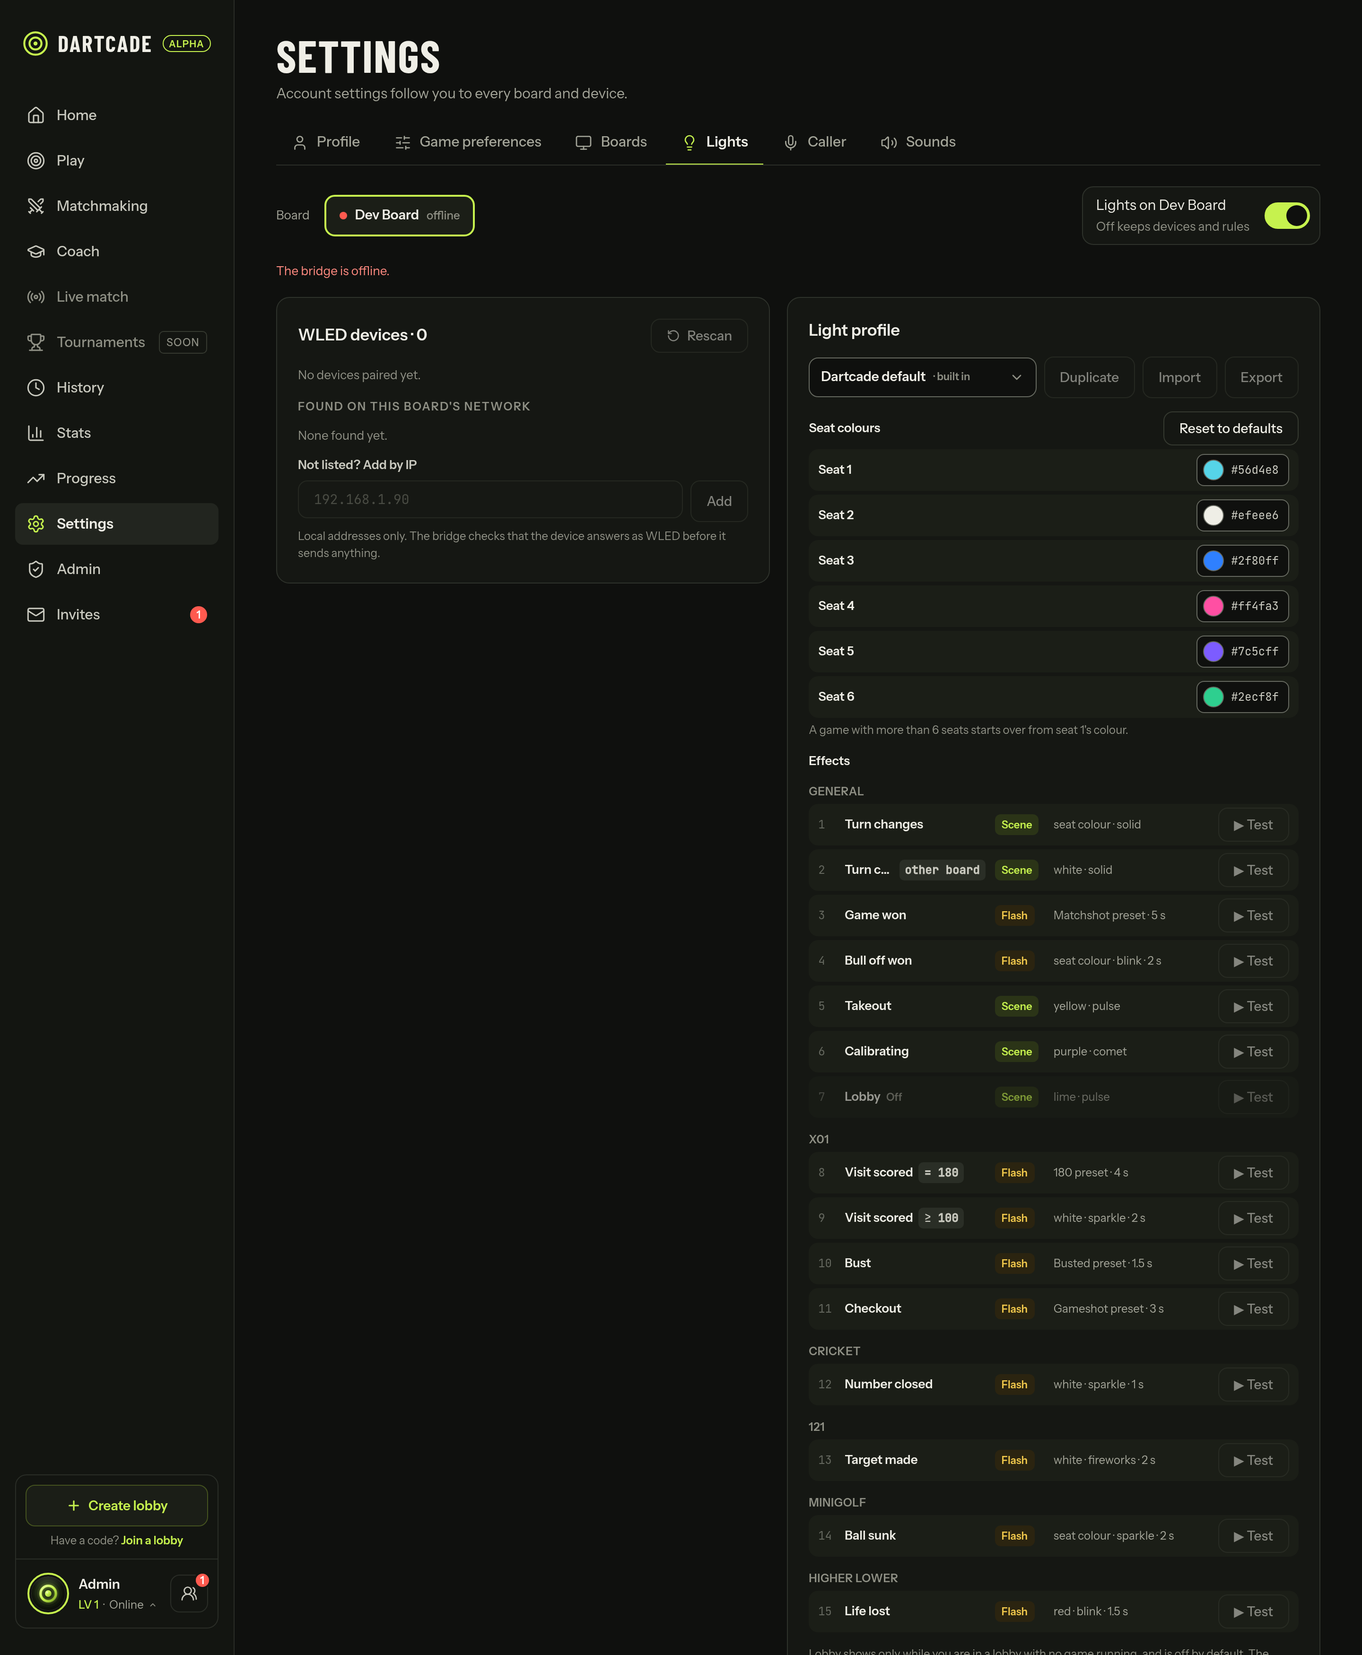
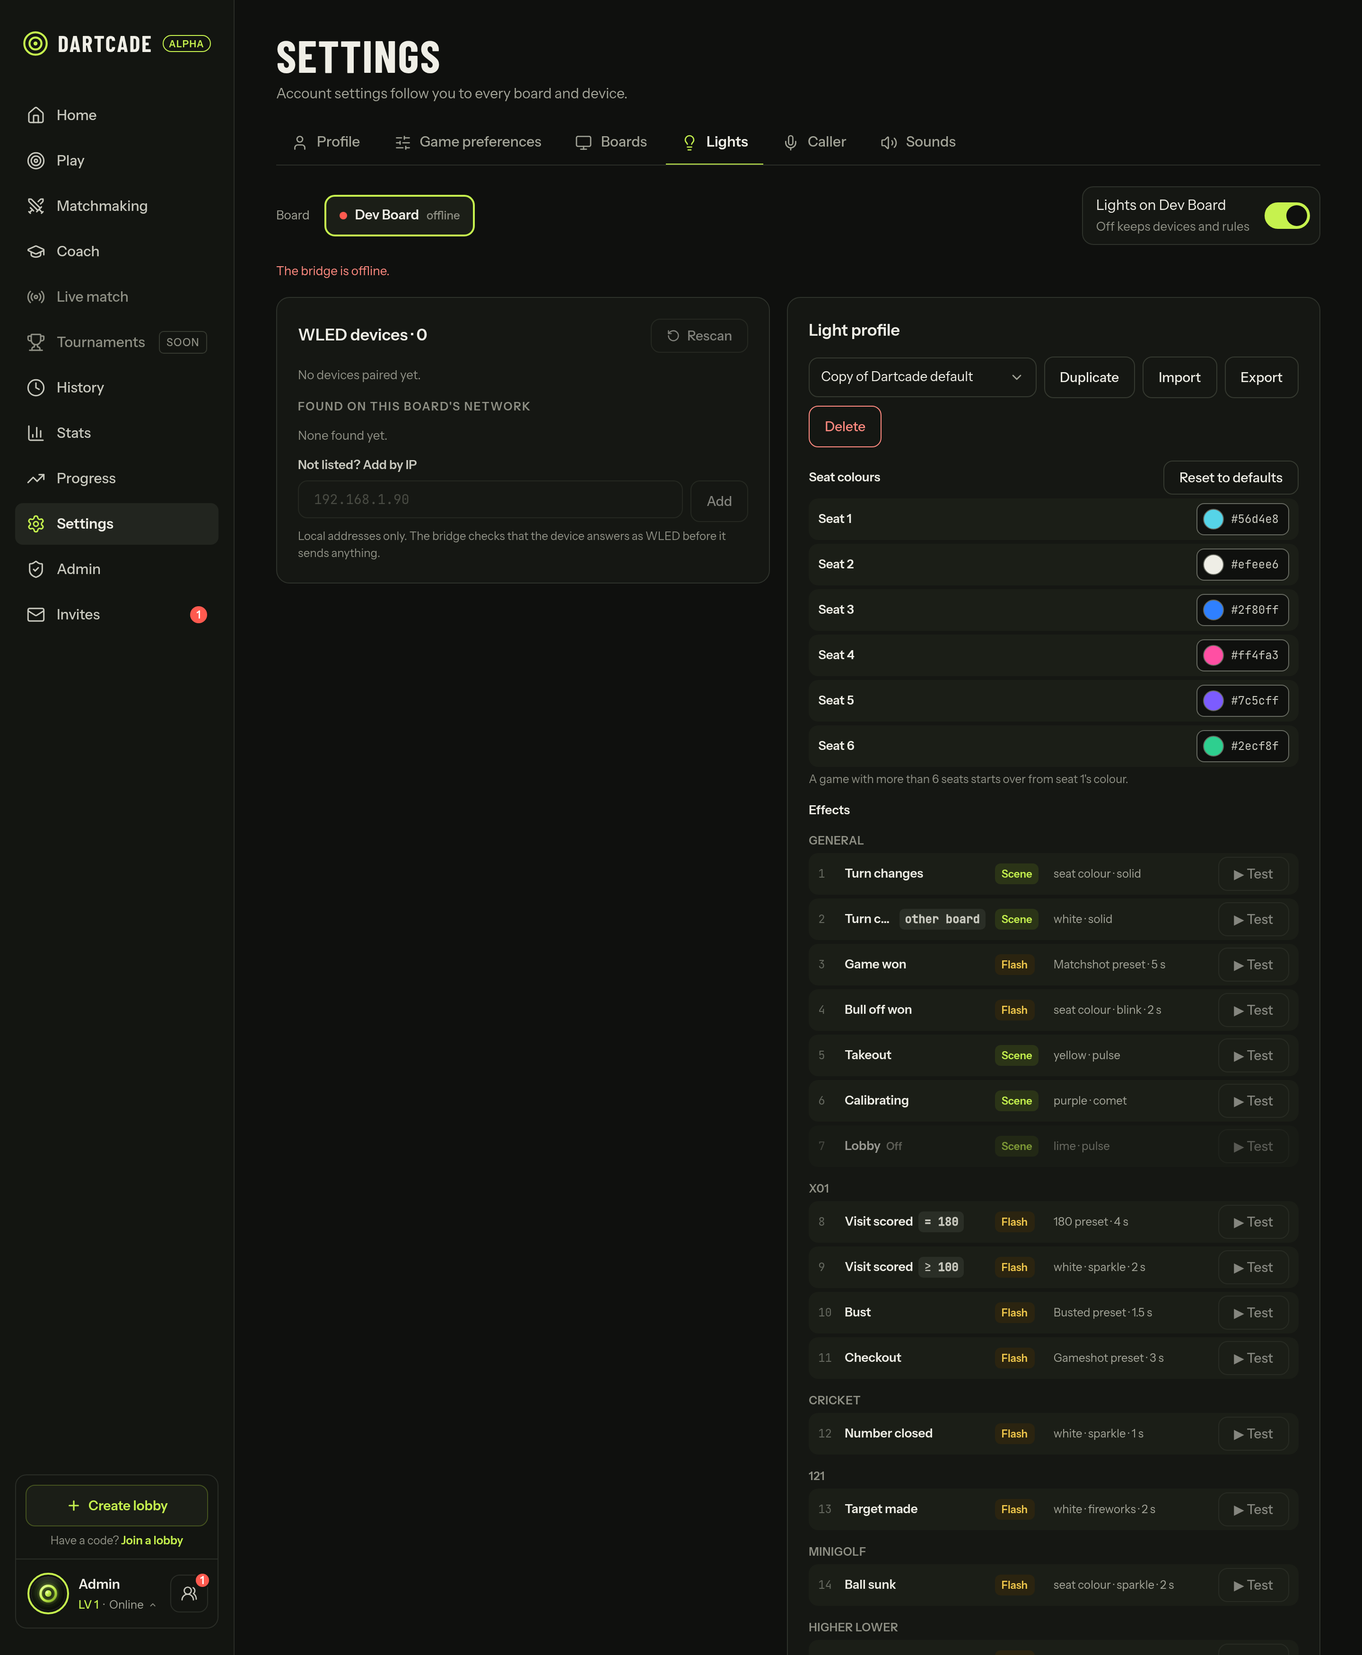
docs(lights): profile files in the spec and AGENTS row, new screenshots

diff --git a/e2e/screenshots/19-lights.spec.ts b/e2e/screenshots/19-lights.spec.ts
@@ -1,5 +1,6 @@
 import { test, expect } from '@playwright/test'
-import { open, shot } from './helpers.js'
+import type { Page } from '@playwright/test'
+import { BASE, open, shot } from './helpers.js'
 
 const VIEWS = [
   [{ width: 1440, height: 1750, scale: 2 }, 'desktop'],
@@ -25,6 +26,80 @@ test('lights profile: the seat colours group on top, a seat colour picker, a sav
 
     await page.getByRole('button', { name: 'Reset to defaults' }).click()
     await expect(page.getByRole('button', { name: /^Seat 3 colour: orange/ })).toBeVisible()
+    await ctx.close()
+  }
+})
+
+// A friend's file: 14 of the built-in effects, one for an effect that does not exist and one for a game that does not
+const friendsFile = (builtIn: { effects: object[] }) =>
+  JSON.stringify({
+    ...builtIn,
+    name: 'Phil’s lights',
+    effects: [
+      ...builtIn.effects.slice(0, 14),
+      { trigger: 'atc.hit', seats: 'mine', type: 'flash', enabled: true, look: { preset: '180' } },
+      { trigger: 'bust', game: 'darts-of-doom', seats: 'mine', type: 'flash', enabled: true, look: { preset: 'Busted' } },
+    ],
+  })
+
+/** Deletes the player's own profiles (a run that failed half-way leaves them), so the board is on the built-in one. */
+async function removeOwnProfiles(page: Page, boardId: string) {
+  const { profiles } = (await (await page.request.get(`/api/boards/${boardId}/lights`)).json()) as {
+    profiles: { id: string; builtIn: boolean }[]
+  }
+  for (const p of profiles.filter(p => !p.builtIn)) {
+    const res = await page.request.delete(`/api/boards/${boardId}/lights/profiles/${p.id}`, { headers: { Origin: BASE } })
+    expect(res.ok()).toBe(true)
+  }
+}
+
+test('light profiles: the profile menu, a duplicate, an import with its result, an export', async ({ browser }) => {
+  for (const [view, name] of [
+    [{ width: 1440, height: 1750, scale: 2 }, 'desktop'],
+    [{ width: 390, height: 2400, scale: 2 }, 'phone'],
+  ] as const) {
+    const { ctx, page } = await open(browser, 'admin', view)
+    await page.goto('/#/settings/lights')
+    await expect(page.getByRole('region', { name: 'Light profile' })).toBeVisible()
+
+    const builtIn = (await (await page.request.get('/api/boards')).json()) as { boards: { id: string }[] }
+    const boardId = builtIn.boards[0].id
+    await removeOwnProfiles(page, boardId)
+    const exported = await (await page.request.get(`/api/boards/${boardId}/lights/profile/export`)).json()
+
+    // Duplicate: the copy is in use, named "Copy of …"
+    await page.getByRole('button', { name: 'Duplicate' }).click()
+    await expect(page.getByRole('button', { name: 'Light profile', exact: true })).toContainText('Copy of Dartcade default')
+    await page.getByRole('button', { name: 'Light profile', exact: true }).click()
+    await expect(page.getByRole('option', { name: /Copy of Dartcade default/ })).toBeVisible()
+    await shot(page, `lights/profile-menu-${name}.png`)
+    await page.keyboard.press('Escape')
+    await shot(page, `lights/duplicate-${name}.png`)
+
+    // Import: a new profile, never an overwrite, with what came through and what was ignored
+    await page.locator('input[type=file]').setInputFiles({
+      name: 'phils-lights.dartcade-lights.json',
+      mimeType: 'application/json',
+      buffer: Buffer.from(friendsFile(exported)),
+    })
+    const dialog = page.getByRole('dialog')
+    await expect(dialog.getByRole('status')).toHaveText('Imported 14 effects, ignored 2')
+    await shot(page, `lights/import-result-${name}.png`)
+    await dialog.getByRole('button', { name: 'Done' }).click()
+    await expect(page.getByRole('button', { name: 'Light profile', exact: true })).toContainText('Phil’s lights')
+
+    // Export: the file has the name, seat colours and effects, and nothing private
+    const download = page.waitForEvent('download')
+    await page.getByRole('button', { name: 'Export' }).click()
+    const file = JSON.parse(await (await (await download).createReadStream()).toArray().then(c => Buffer.concat(c).toString()))
+    expect(file).toMatchObject({ format: 'dartcade-light-profile', version: 1, name: 'Phil’s lights' })
+    expect(JSON.stringify(file)).not.toMatch(/"(id|host|mac|token|state)"/)
+
+    // The Delete button asks first; the rest are removed through the API so the next run starts from the built-in profile
+    await page.getByRole('button', { name: 'Delete', exact: true }).click()
+    await page.getByRole('dialog').getByRole('button', { name: 'Delete' }).click()
+    await expect(page.getByRole('dialog')).toBeHidden()
+    await removeOwnProfiles(page, boardId)
     await ctx.close()
   }
 })

diff --git a/AGENTS.md b/AGENTS.md
@@ -79,7 +79,7 @@ corrected dart replays the open visit cleanly.
 | Settings page and the caller | `backend/frontend/src/routes/Settings.svelte` (sections at `#/settings/<section>`, listed in `lib/settings/sections.ts`), its cards in `lib/components/settings/` (`YourCard`: your profile card and the Customise link, `NameCard`, `AccountCard`, `GamePrefs`, `CallerVoices`, `CallerDefaults`, `VoiceSelect`); settings in `lib/gameSettings.ts` (cached per device), the account-wide ones (`ACCOUNT_KEYS`) synced by `lib/accountSettings.ts` through `GET`/`PUT /api/me/preferences` (`api/me.ts`, the `user.preferences` column); the Boards section is `lib/components/boards/BoardsSection.svelte` (`#/boards` redirects there); what the caller says (checkout calls: `checkoutFor`, `requirePart`), its voices and the player in `lib/caller/` (`calls.ts`, `voices.ts`, `player.ts`); voice packs on the server in `backend/src/caller/` (`autodarts.ts` cuts an Autodarts voice MP3 by its timing table, behind `caller.autodartsImport`; the bookmarklet that fetches them is `lib/caller/autodartsVoices.js`, turned into a link in `lib/caller/bookmarklet.ts`), their API in `backend/src/api/voices.ts` (rename: `PATCH /api/voice-packs/{id}`, `renameVoicePack` in `lib/caller/voices.ts`); the play buttons for sounds and samples are `lib/components/PreviewButton.svelte`; a pack's details page (every sound the caller can use, a preview of those the pack has) is `routes/VoicePackDetails.svelte` with the list in `lib/caller/catalogue.ts`, behind `caller.packDetails` |
 | Profile pictures: the Dartcade mark in two layers (foreground, background), each one of twenty finishes | `backend/src/shared/avatarFinishes.ts` (the list), rewards `picture.<id>` in `shared/progression.ts` `PERKS`; `user.avatar_preset` (foreground) / `avatar_background` (migration `038`), `setAvatar` in `db/users.ts`, `PATCH /api/me`; art: one standalone SVG per layer, `backend/frontend/src/lib/assets/finishes/<id>/{foreground,background}.svg` (short local ids; add a finish with a folder holding both files plus an `AVATAR_FINISHES` entry), assembled into one sprite of `finish-fg-<id>`/`finish-bg-<id>` symbols at build time by `lib/assets/finishes.ts` (ids prefixed `<id>-<fg|bg>-`), inlined once by `FinishSprite.svelte` (in `App.svelte`), drawn by `FinishPicture.svelte` (one layer or both) inside `Avatar.svelte`; `lib/progress/pictures.ts` (`wearPicture`, `finishAvatar`); picked only on Customise (`routes/Customise.svelte`); initials (`none`) and photos (`upload`, `POST /api/me/avatar`, `avatar.upload.enabled`) still render but have no UI for now |
 | Customise your card (picture layers, frame, banner, colours and name style, title, sounds, celebrations): a draft saved together | `#/profile/customise/:tab` (`routes/Customise.svelte`, one route so tabs keep the draft; the Profile page's and Settings → Profile's Customise buttons link here); tabs, draft diffing (`equipChanges`, `pictureChanged`), Hide locked in `lib/progress/customise.ts`; tiles `lib/components/progress/CustomiseTile.svelte`; saves through `equip` (`lib/progress/equip.ts`) and `wearPicture` |
-| Lights (WLED): triggers from game snapshots, the built-in profile, devices per board | rules and patches in `backend/src/shared/lights/` (shared with the frontend), triggers per game in `backend/src/lights/triggers/` (a trigger's game, so the Effects list's groups, is `TRIGGER_GAME` in `shared/lights/groups.ts`: add a trigger there or the typecheck fails; the list is built by `effectGroups` in `lib/lights/view.ts`, and the built-in rules are kept in group order), `backend/src/lights/service.ts` (sends `wled.apply` to the bridge), reports in `lights/store.ts`, `db/lights.ts`, API in `api/lights.ts`; a profile's `seatColors` (six `#rrggbb`, wrapping past seat 6 via `seatColor`; `DEFAULT_SEAT_COLORS` in `shared/lights/profile.ts`) are the board's own in `boards.light_seat_colors` (migration `061`, `PUT`/`DELETE …/lights/seat-colors`), edited in the card's Seat colours group (`SeatColorPicker.svelte`, `lib/lights/seatColors.ts`) and never part of device data; bridge side `bridge/internal/wled` (allowlist, queue, flash/restore, mDNS; refuses loopback addresses unless `DARTCADE_WLED_ALLOW_LOOPBACK=1`); frontend `lib/components/lights/`, `lib/lights/`; behind `lights.enabled`; spec `docs/superpowers/specs/2026-10-18-wled-lights-design.md`, plan `docs/superpowers/plans/2026-10-18-wled-lights.md` |
+| Lights (WLED): triggers from game snapshots, the built-in profile, devices per board | rules and patches in `backend/src/shared/lights/` (shared with the frontend), triggers per game in `backend/src/lights/triggers/` (a trigger's game, so the Effects list's groups, is `TRIGGER_GAME` in `shared/lights/groups.ts`: add a trigger there or the typecheck fails; the list is built by `effectGroups` in `lib/lights/view.ts`, and the built-in rules are kept in group order), `backend/src/lights/service.ts` (sends `wled.apply` to the bridge), reports in `lights/store.ts`, `db/lights.ts`, API in `api/lights.ts`; a profile's `seatColors` (six `#rrggbb`, wrapping past seat 6 via `seatColor`; `DEFAULT_SEAT_COLORS` in `shared/lights/profile.ts`) are the board's own in `boards.light_seat_colors` (migration `061`, `PUT`/`DELETE …/lights/seat-colors`), edited in the card's Seat colours group (`SeatColorPicker.svelte`, `lib/lights/seatColors.ts`) and never part of device data; a player's own profiles (Duplicate, Import, Export, Delete in the card's profile menu: `LightProfileCard.svelte`, `ImportResultDialog.svelte`, `LightsSection.svelte`) are the `light_profiles` table (migration `063`, `boards.light_profile_id` selects one, null is the built-in), the board's effective profile is `getBoardProfile` in `db/lights.ts`, and the file format with its strict import (a preset is a name, never WLED state) is `lights/profileFile.ts`; bridge side `bridge/internal/wled` (allowlist, queue, flash/restore, mDNS; refuses loopback addresses unless `DARTCADE_WLED_ALLOW_LOOPBACK=1`); frontend `lib/components/lights/`, `lib/lights/`; behind `lights.enabled`; spec `docs/superpowers/specs/2026-10-18-wled-lights-design.md`, plan `docs/superpowers/plans/2026-10-18-wled-lights.md` |
 | Big screen: a view-only, distance-readable game display for the board's screen (idle, live, held result), started on the board machine by a user-session helper | page `backend/frontend/src/routes/BigScreen.svelte` (`#/big-screen/<boardId>`), `lib/bigscreen/`, `lib/components/bigscreen/`; what it shows is the match screen's own components, view only (`MatchScreen`, so every mode, then `WinScreen`, ... with the derivations in `lib/matchView.ts`, shared with `GameDisplay.svelte`), drawn in a same-origin iframe 1.25 times smaller than the stage and scaled up (`MatchFrame.svelte` posts the state to `routes/BigScreenFrame.svelte`, `#/big-screen-frame`; `lib/bigscreen/frame.ts`); socket `/ws/board` in `backend/src/browser-gw/bigScreen.ts` (messages in `schema/board-ws-v1.json`), `backend/src/bigscreen/service.ts` (follows `engine.getSessionByBoard`, holds a finished game from the `ended` hook, polls the board's Board Manager status every 3 s while someone follows it, via `boards/bmState.ts`, for the header's status dot), the running state and the open command in `backend/src/boards/{bigScreenState,bigScreenOpen}.ts` (the bridge's `bigscreen.status` branch is in `backend/src/bridge-gw/handler.ts`); API in `backend/src/api/boards.ts` (`PATCH /api/boards/{id}/big-screen`, `POST …/big-screen/start\|stop`); buttons and setting: `BoardStatusPanel.svelte`, `SettingsDrawer.svelte`, `BoardsSection.svelte` (its Big screen section is `boards/BigScreenSetup.svelte`: monitor switch, Manual / Always on, status, button), `bigScreenButton` in `lib/boards.ts`; bridge `bridge/internal/bigscreen` (forwarder, helper, registration); behind `bigscreen.enabled`; spec `docs/superpowers/specs/2026-10-27-big-screen-design.md` |
 | Home (`#/`, where signing in lands; `#/play` is the Play page): your form, ranked, featured banners, friends' lobbies, friend activity, what's new, jump back in | `backend/frontend/src/routes/Home.svelte` (`Root.svelte` picks it or the Play page by `home.enabled`, on for everyone), cards in `lib/components/home/`, text and rules in `lib/home/` (`view.ts`, `loader.svelte.ts`; Featured and What's new are hand-edited lists in `featured.ts` and `news.ts`, each item behind the flag of what it advertises). Friends' lobbies: `GET /api/home/lobbies` (`api/home.ts`, `db/homeLobbies.ts`). Friend activity: `GET /api/home/activity`, table `friend_activity` (migration `043`), written at game finish by `finishGameSession` and on a stage climb by `recordRankedResult` through `activity/events.ts` (`one_eighty`, `ton_out` from X01's `count180`/`tonOuts` seat stats, `rank_up`), deleted with an invalidated game, pruned after 30 days in `index.ts`; `db/activity.ts`. Left out because the data does not exist: rank in country, Watch, customizing; design in `docs/superpowers/specs/2026-10-27-home-page-design.md`, screenshots in `docs/home/` |
 | Line charts (layerchart `Chart` + `Spline`): a vertical rule at every x with a point, whole-number visit ticks | `lib/charts/grid.ts` (`chartGrid`, `integerTicks`, `xPositions`); every line chart passes its x positions to it: `components/details/{RemainingChart,RaceChart}.svelte`, `stats/LineChart.svelte`, `p121/P121TriesChart.svelte`, `home/AverageSpark.svelte`; screenshots `docs/chart-grid/` |

diff --git a/docs/superpowers/specs/2026-10-18-wled-lights-design.md b/docs/superpowers/specs/2026-10-18-wled-lights-design.md
@@ -20,7 +20,7 @@ patches to the bridge.
 and brightness cap per device; the per-board master switch; the read-only built-in profile
 "Dartcade default" with ▶ Test per rule; triggers for every game.
 
-**v2 (follow-up issue):** custom profiles (Duplicate, Import, Export), the rule editor and drag to
+**v2 (follow-up issue):** custom profiles (Duplicate, Import, Export: part 4 of #522), the rule editor and drag to
 reorder, preset / playlist / raw JSON looks, bridge-side matching of board events for latency.
 
 ## Decisions
@@ -185,7 +185,8 @@ A won X01 match plays only the game.won look, on the winning dart.
   `version`, `segments`, `segment_mode` (`whole` | `perSeat` | `wled`), `max_bri` (1–255, default 178 = 70%),
   `created_at`; unique `(board_id, mac)`.
 - `boards.lights_enabled boolean not null default true`.
-- `boards.light_seat_colors jsonb` (migration 061): the board's six seat colours, null for the built-in ones. Only the built-in profile exists, so this is the one editable part of it; with stored profiles (duplicate, part 4 of #522) the colours move into the profile.
+- `boards.light_seat_colors jsonb` (migration 061): the board's six seat colours for the built-in profile, null for the defaults.
+- `light_profiles` (migration 063): a player's own profiles, made by Duplicate or Import: `id` (ulid), `owner_user_id` (FK, `on delete cascade`), `name` (unique per player), `seat_colors` and `rules` (jsonb, the profile's own copy, so later changes to the built-in rules don't move it), `created_at`. `boards.light_profile_id` (FK, `on delete set null`) selects one for a board; null is the built-in profile. A board's seat colours edit whichever profile it uses: the built-in one's live on the board (`light_seat_colors`), a profile of the player's own has them itself. At most 20 profiles a player.
 - Found devices and live status: in memory per board (`backend/src/lights/store.ts`), like the camera
   store.
 
@@ -195,13 +196,32 @@ Under `/api/boards/{id}/lights`:
 
 - `GET` → `{enabled, bridgeOnline, bridgeOutdated, devices: [device + {reachable, error?}], found: [...], lastScanAt, profile}`
 - `PUT` `{enabled}`
+- `PUT profile {profileId}` (`default` is the built-in one; 404 for another player's), `POST profiles/duplicate` (copies the profile in use as "Copy of …", numbered when taken, and uses it), `POST profiles/import` (a file, below; 201 `{id, name, imported, ignored[], adjusted[]}`, uses it), `GET profile/export` (the file, as an attachment), `DELETE profiles/{profileId}` (boards using it go back to the built-in one). 409 past the limit. All behind the same owner check as the rest.
 - `PUT seat-colors {seatColors: [six #rrggbb]}` (stored lower case; 400 for any other count or format), `DELETE seat-colors` (back to the built-in colours). Both resend the scene, so the strip shows the change at once.
 - `POST scan`, `POST probe {host}`, `POST blink {host} | {deviceId}`
 - `POST devices {mac, host, name, segment_mode, max_bri}` (the MAC must be in `found`), `PATCH devices/{deviceId}`, `DELETE devices/{deviceId}`
-- `POST test {rule: number}`: plays that default-profile rule as a flash (scenes too, held 3 s) for
+- `POST test {rule: number}`: plays that rule of the board's profile as a flash (scenes too, held 3 s) for
   seat 1 on every device of the board.
 
 A device found by another of the user's boards is returned with `onBoard: <board name>`.
+
+### Profile file (`backend/src/lights/profileFile.ts`)
+
+`{format: "dartcade-light-profile", version: 1, name, seatColors: [six #rrggbb], effects: [...]}`, an effect being
+`{trigger, seats, total?, game?, type, enabled, look, holdMs?}` with `look` a colour look (`{color, fx, bri, speed?}`) or
+`{preset: "<name>"}`. It carries nothing private: no device address, MAC, id, token or WLED state (a preset is one of the
+built-in names `180`, `Busted`, `Gameshot`, `Matchshot`, and import takes the state from the server's own copy, so a file
+can't make the bridge send arbitrary WLED JSON). Import is a trust boundary and makes a **new** profile, never overwriting:
+
+- the body is at most 128 KB (413), `format` and `version` must match (400 with the reason), at most 100 effects are read;
+- every effect is checked with zod; one with an unknown trigger or game, an unknown preset, or a bad field is ignored
+  and reported ("effect 4: unknown effect "atc.hit""); unknown fields on the file, an effect or a look are dropped and
+  reported;
+- numbers are moved into range (brightness and effect id 0 to 255, speed 0 to 255, hold time 100 ms to 60 s, a visit
+  total 0 to 180) and reported under `adjusted`; a colour is `seat`, `team` or `#rrggbb` or the effect is ignored;
+- seat colours: a bad or missing one is replaced by the default for that seat, extras past six are dropped;
+- the name is trimmed, cleaned of control characters and cut to 60; a taken name (or the built-in one's) becomes "Name 2";
+- a file with no usable effect is a 400. The result reads "Imported 14 effects, ignored 2".
 
 ### Flag
 
@@ -225,8 +245,10 @@ The page re-fetches `GET` every 3 s while it's open.
   seat with its swatch and a picker (a bits-ui popover with a palette as a radio group plus a custom
   colour field), and **Reset to defaults**. Below it **Effects**, one list per group (General, then each game that has an effect: X01, Cricket, 121,
   Minigolf, Higher Lower), numbered across the groups: the read-only rules
-  (trigger, filter, Scene/Flash, look summary, an "Off" mark on a disabled rule) with **▶ Test**. Duplicate, Import, Export shown disabled
-  ("Coming soon").
+  (trigger, filter, Scene/Flash, look summary, an "Off" mark on a disabled rule) with **▶ Test**. A **profile menu** (bits-ui select) lists the
+  built-in profile and the player's own; **Duplicate**, **Import** (a file picker, then a result dialog with the
+  summary and what was ignored or changed) and **Export** (a download) work on the profile in use, and **Delete**
+  (with a confirmation) shows for the player's own.
 - **Pair dialog** (`ui/modal`): (1) blink check: "Blinking lime now", Blink again, "Yes, it blinked" /
   "No, show me another" (next found device); (2) name (prefilled) and board; (3) segments: Whole strip /
   One per seat / Use WLED segments, with the hint "4 × 36 LEDs"; (4) max brightness, default 70%.
